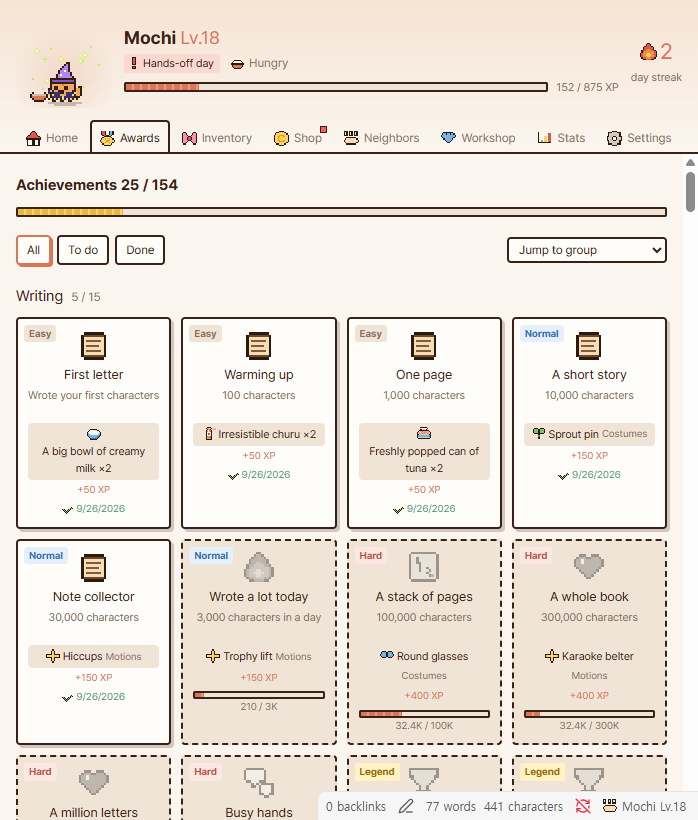
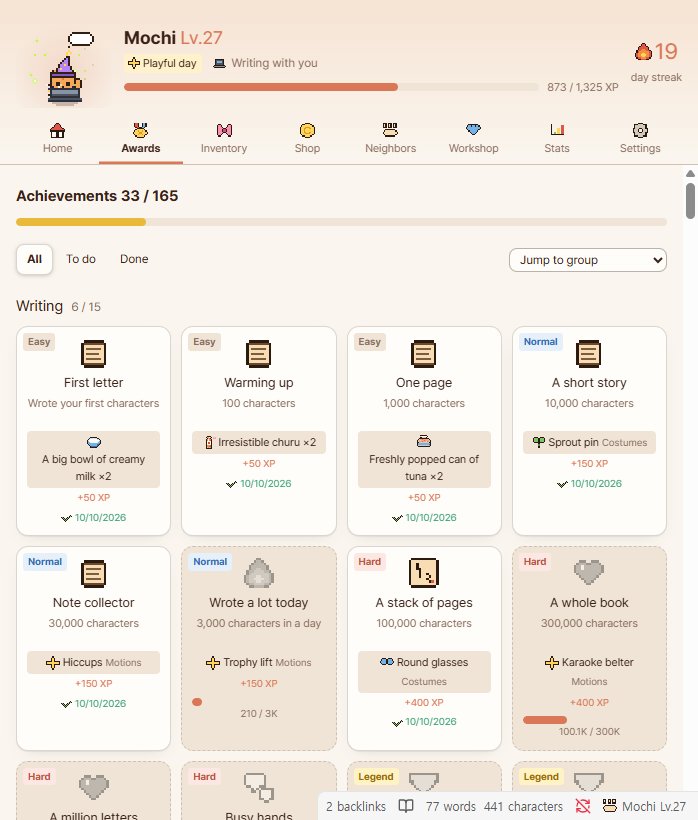
docs: new README screenshots for 1.3.0
Retaken in English with the demo cat Mochi: the writing view with the house,
the floor with a neighbor, the right-click menu (no energy gauge), the shop,
the new star shop, the inventory with the ear-shape button, badges (165),
the heatmap and a September recap card.

diff --git a/README.md b/README.md
@@ -6,7 +6,7 @@ Vault Pet turns writing into a cozy little game. A hand-drawn pixel cat strolls 
 
 ![Mochi the cat pulls out a tiny laptop and types along, a thought bubble over its head, while a paragraph of a novel is being written in the note above.](docs/typing.gif)
 
-![Mochi the cat types along on its laptop while you write a novel draft. The cat's house is open on the right with today's writing, its fullness and energy, and daily quests.](docs/kitcommit-hero.png)
+![Mochi the cat types along on its laptop while you write a novel draft. The cat's house is open on the right with today's writing, a 19-day check-in streak, its fullness and today's craving.](docs/kitcommit-hero.png)
 
 ## Why you'll love it
 
@@ -34,9 +34,9 @@ Your cat lives on the floor of your workspace, just above the status bar. It nap
 
 Clicks on the empty parts of the floor pass straight through to Obsidian, so your cat never gets in the way.
 
-![Mochi in a wizard hat plays with a red ball while Dust, a gray neighbor cat, drops by for a visit.](docs/kitcommit-floor.png)
+![Mochi in a wizard hat catches a red ball and cheers "Hunt successful!!" while Dust, a gray neighbor cat, drops by for a visit.](docs/kitcommit-floor.png)
 
-![Right-clicking the cat opens a menu with its fullness and energy, today's writing, feeding, snacks, toys, quiet mode and more, each with its own pixel icon.](docs/kitcommit-menu.png)
+![Right-clicking the cat opens a menu with its fullness, today's writing, feeding, snacks, toys, size, mute, quiet mode and more, each with its own pixel icon.](docs/kitcommit-menu.png)
 
 ### Moods
 
@@ -70,7 +70,7 @@ Growth starts on the day you install. Vault Pet takes one quick look at your vau
 
 Everything you write fills your wallet. The first 5,000 characters each day earn 1 coin per 5 characters, and after that 1 coin per 25. You also get 1,000 coins as a welcome gift.
 
-![The shop: 18,577 coins in the wallet and costume cards for a sprout pin, a gentleman mustache, a face mask, a bell collar and bunny ears.](docs/kitcommit-shop.png)
+![The shop: 14,772 coins in the wallet, pages for meals, snacks, costumes, motions, toys and the star shop, and costume cards for a sprout pin, a gentleman mustache, a face mask and a bell collar.](docs/kitcommit-shop.png)
 
 | Category | What you get |
 |---|---|
@@ -82,7 +82,9 @@ Everything you write fills your wallet. The first 5,000 characters each day earn
 
 New items unlock as you level up, all the way to Lv.80. Locked items show a faint preview, so you can see what you're working toward.
 
-![The inventory: Mochi wears a wizard hat, an archmage robe, a star wand and fireflies, with the rest of the collection on the right.](docs/kitcommit-wardrobe.png)
+![The star shop before Lv.80: endgame sets like Nebula Dragoon, Phoenix King, Lord of the Deep and World Tree Warden shown as faint locked previews, each priced in stars.](docs/kitcommit-starshop.png)
+
+![The inventory: Mochi wears a wizard hat, an ancient archmage robe, a star wand and fireflies, with fur and ear-shape buttons below and the rest of the collection on the right.](docs/kitcommit-wardrobe.png)
 
 ## Quests, badges and more
 
@@ -94,7 +96,7 @@ New items unlock as you level up, all the way to Lv.80. Locked items show a fain
 - **Treasure workshop**: craft exclusive costumes out of the treasures you find. The treasure exchange turns spare treasures into the ones you need, and every crafted costume remembers what it was made from.
 - **Once a day, your cat asks you something**: did you eat lunch, when are you going to bed, are you busy today. Say you're busy and it keeps the small talk to itself for two hours.
 
-![The awards tab: writing badges like First letter, Warming up, One page and A short story, each with its reward and progress bar.](docs/kitcommit-achievements.png)
+![The awards tab: 33 of 165 badges, with writing badges like First letter, Warming up, One page and A short story, each with its reward and the date it was earned.](docs/kitcommit-achievements.png)
 
 ## Stats and a card to show off
 
@@ -104,7 +106,7 @@ The Stats tab shows what you've written and the coins it earned, a weekday × ho
 
 Make your own show-off card: pick this month, last month or all time, choose up to six stats (characters, links, new notes, sessions, days, longest streak, busiest day, busiest hour, favorite folder, coins, badges, level change, XP, folders), a color, your cat's pose, a one-line caption and a post (4:5) or story (9:16) size. Then save it to your vault, copy the image or copy a ready-made caption. In the first week of each month, the house lets you know last month's card is ready.
 
-![A show-off card: Mochi at Lv.18 grew up on 32.4K characters, with sessions, characters, links, days together, busiest hour and favorite folder, plus a 20-week writing grid.](docs/kitcommit-card.png)
+![A September recap card in the night theme: Mochi at Lv.27 wrote 70.1K characters, with days together, longest streak, busiest day, busiest hour and favorite folder, plus a calendar of the days it wrote.](docs/kitcommit-card.png)
 
 Using [Hearth](https://github.com/ondreu/Hearth)? Its **Vault Pet** card puts your cat, or its whole house, on your Hearth dashboard.
 
